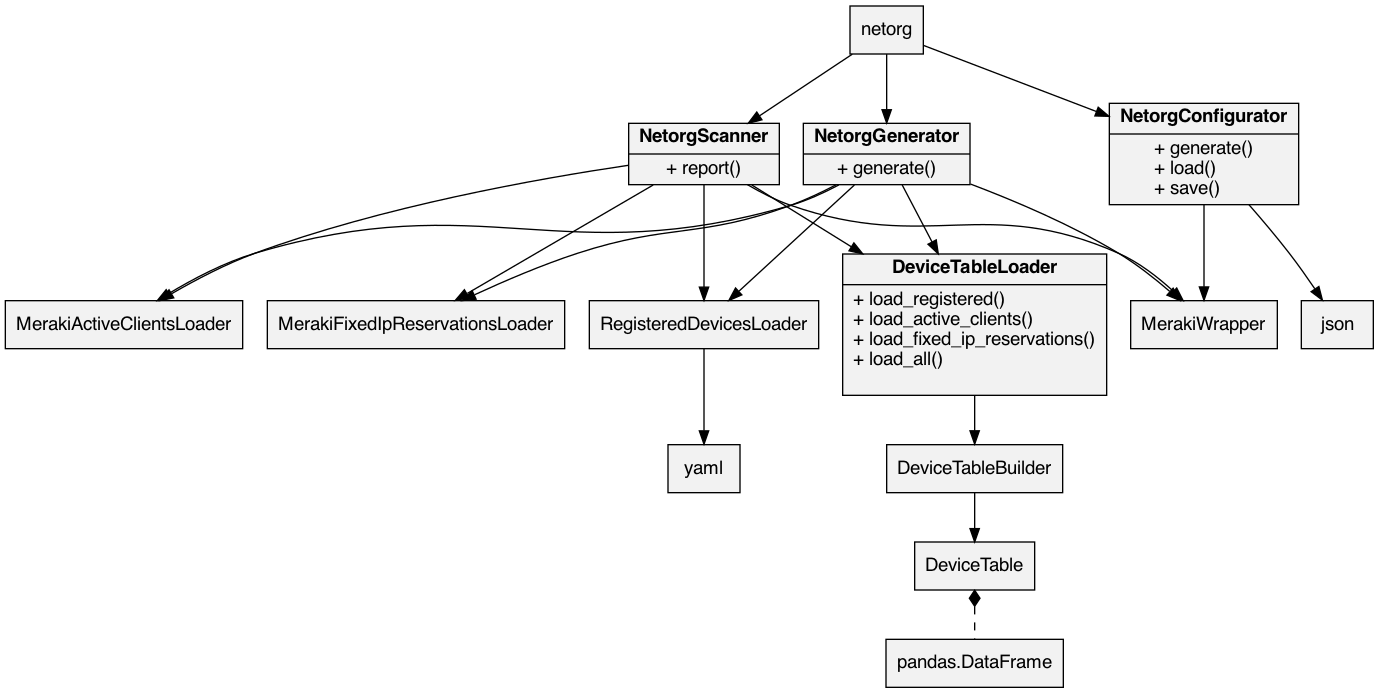
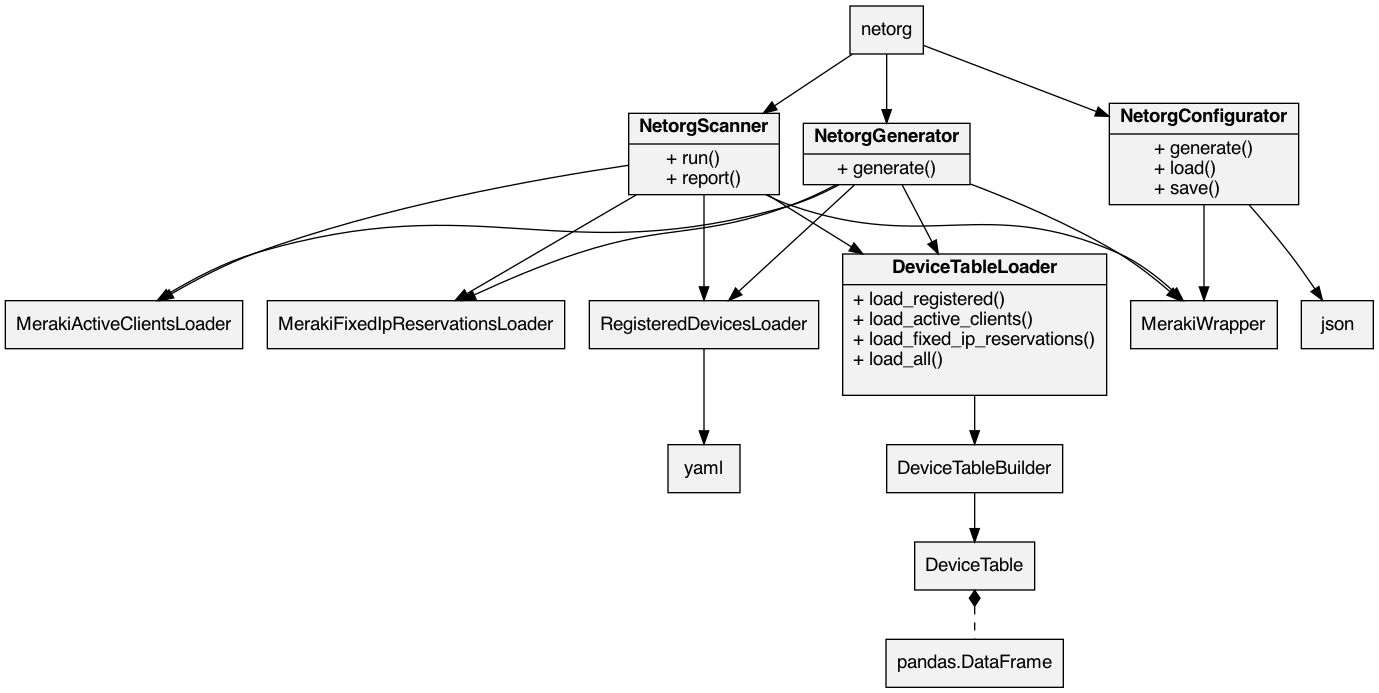
Made scan.py more testable

Changed region(s): [[0.4365, 0.1515, 0.5613, 0.303]]

diff --git a/scan.py b/scan.py
@@ -23,27 +23,62 @@ class NetorgScanner:
             meraki_active_clients_loader,
             meraki_fixed_ip_reservations_loader)
         self.device_table = device_table_loader.load_all()
+        self.analysis = {
+            'not_registered_not_reserved_ACTIVE': {
+                'query': 'not registered and not reserved and active',
+                'device_names': [],
+                'action': 'New device(s)? These will be registered as un-classified during the next organize'
+            },
+            'not_registered_RESERVED_not_active': {
+                'query': 'not registered and reserved and not active',
+                'device_names': [],
+                'action': 'Retired device(s)? The reserved IP will be removed during the next organize'
+            },
+            'not_registered_RESERVED_ACTIVE': {
+                'query': 'not registered and reserved and active',
+                'device_names': [],
+                'action': 'These will be registered as un-classified during the next organize'
+            },
+            'REGISTERED_not_reserved_not_active': {
+                'query': 'registered and not reserved and not active',
+                'device_names': [],
+                'action': 'A reserved IP will be created during the next organize'
+            },
+            'REGISTERED_not_reserved_ACTIVE': {
+                'query': 'registered and not reserved and active',
+                'device_names': [],
+                'action': 'The current IP will be converted to a static IP during the next organize'
+            },
+            'REGISTERED_RESERVED_not_active': {
+                'query': 'registered and reserved and not active',
+                'device_names': [],
+                'action': 'These devices are currently inactive - no action will be taken during the next organize'
+            },
+            'REGISTERED_RESERVED_ACTIVE': {
+                'query': 'registered and reserved and active',
+                'device_names': [],
+                'action': 'Normal state - no action will be taken during the next organize'
+            },
+            'ACTIVE_UNCLASSIFIED': {
+                'query': "active and group == 'unclassified'",
+                'device_names': [],
+                'action': 'You should consider classifying them before the next organize'
+            }
+        }
 
-    def show_devices(self,df,state,guidance) :
-        if df.shape[0] == 0:
-            print(f'Did not find any devices that are {state}.')
-        else:
-            print(f'{df.shape[0]} device(s) are {state}. {guidance}:')
-            for name in df['name']:
-                print(f'     {name}')
+    def run(self):
+        df = self.device_table.df
+        for k, v in self.analysis.items():
+            query_result_df = df.query(v['query'])
+            v['device_names'] = query_result_df['name'].values.tolist()
 
     def report(self) :
         df = self.device_table.df
-        need_registration_and_reservation_df = df.query('active and not reserved and not registered')
-        self.show_devices(need_registration_and_reservation_df, 'active, not reserved and not registered', 'These will be registered as unclassified and assigned a reserved IP at the next sync')
-        remove_reservation_df = df.query('reserved and not active and not registered')
-        self.show_devices(remove_reservation_df, 'reserved, not active and not registered', 'The reserved IP will be removed at the next sync')
-        need_registration_df = df.query('active and reserved and not registered')
-        self.show_devices(need_registration_df, 'active, reserved and not registered', 'These will be registered as un-classified at the next sync')
-        need_reservation_df = df.query('registered and not reserved and not active')
-        self.show_devices(need_reservation_df, 'registered, not reserved and not active', 'A reserved IP will be created at the next sync')
-        convert_to_static_df = df.query('registered and active and not reserved')
-        self.show_devices(convert_to_static_df, 'registered, active and not reserved', 'The current IP will be converted to a static IP at the next sync')
-        unclassified_df = df.query("active and group == 'unclassified'")
-        self.show_devices(unclassified_df, 'active and unclassified', 'You should consider classifying them before the next sync')
-
+        for k, v in self.analysis.items():
+            if len(v["device_names"]) == 0:
+                print(f'Did not find any devices that are: {v["query"]}') 
+            else:
+                print(f'Found {len(v["device_names"])} device(s) that are: {v["query"]}') 
+                print(f'{v["action"]}')
+                for device_name in v['device_names']:
+                    print(f'     {device_name}')

diff --git a/netorg.py b/netorg.py
@@ -32,6 +32,7 @@ def main():
         configurator.load()
         config = configurator.get_config()
         scanner = NetorgScanner(config)
+        scanner.run()
         scanner.report()
     elif args.organize:
         print("Organize")
